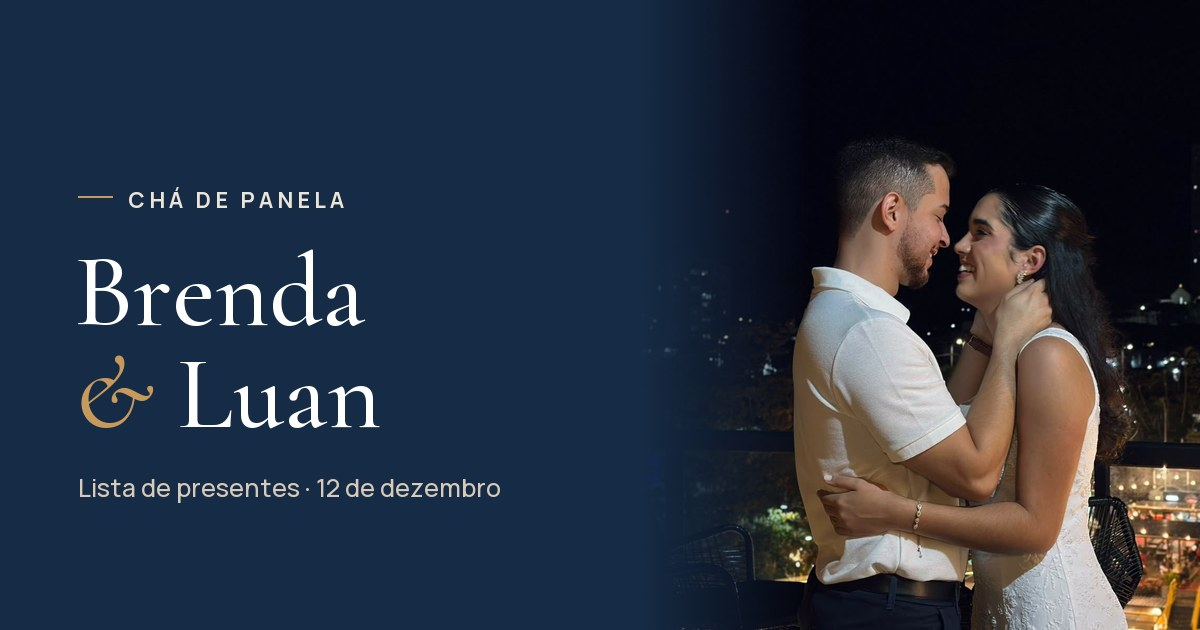
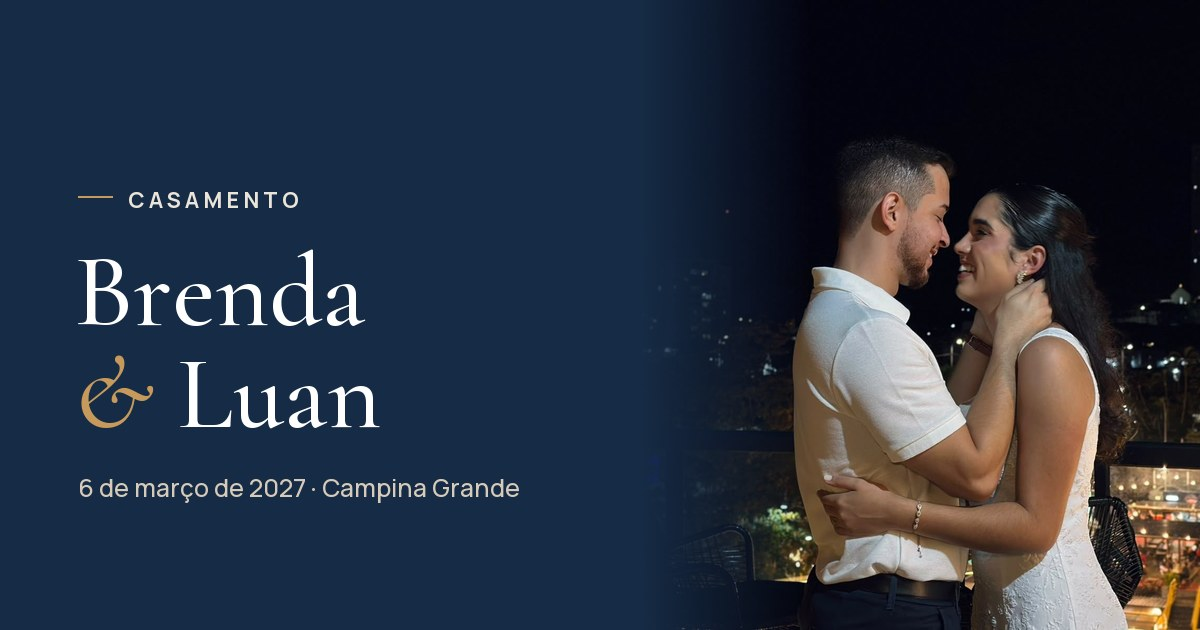
casamento: site oficial (contagem regressiva, 06/03/2027 Espaço Imbituba)

Changed region(s): [[0.0617, 0.754, 0.4317, 0.8143], [0.1233, 0.3016, 0.3083, 0.3317]]

diff --git a/cha-de-panela/index.html b/cha-de-panela/index.html
@@ -7,19 +7,19 @@
 <meta name="robots" content="noindex, nofollow">
 <link rel="icon" href="favicon.ico">
 <link rel="apple-touch-icon" href="apple-touch-icon.png">
-<title>Chá de Panela · Brenda & Luan</title>
-<meta name="description" content="Escolha um presente da nossa lista ou contribua via PIX. Obrigado por estar com a gente nesse começo!">
+<title>Brenda & Luan · Casamento</title>
+<meta name="description" content="Vamos nos casar! 6 de março de 2027, em Campina Grande. Aqui você encontra a contagem regressiva, o local e a nossa lista de presentes.">
 <meta property="og:type" content="website">
 <meta property="og:site_name" content="Brenda & Luan">
-<meta property="og:title" content="Chá de Panela · Brenda & Luan">
-<meta property="og:description" content="Escolha um presente da nossa lista ou contribua via PIX. Obrigado por estar com a gente nesse começo!">
+<meta property="og:title" content="Brenda & Luan · Casamento">
+<meta property="og:description" content="Vamos nos casar! 6 de março de 2027, em Campina Grande. Aqui você encontra a contagem regressiva, o local e a nossa lista de presentes.">
 <meta property="og:url" content="https://brendaeluan.vercel.app/">
 <meta property="og:image" content="https://brendaeluan.vercel.app/img/previa.jpg">
 <meta property="og:image:secure_url" content="https://brendaeluan.vercel.app/img/previa.jpg">
 <meta property="og:image:type" content="image/jpeg">
 <meta property="og:image:width" content="1200">
 <meta property="og:image:height" content="630">
-<meta property="og:image:alt" content="Brenda e Luan abraçados · Chá de Panela">
+<meta property="og:image:alt" content="Brenda e Luan abraçados · Casamento">
 <meta property="og:locale" content="pt_BR">
 <meta name="twitter:card" content="summary_large_image">
 <link rel="canonical" href="https://brendaeluan.vercel.app/">
@@ -105,6 +105,18 @@ a{color:inherit}
 .cta-link{font-size:13px;color:rgba(255,255,255,.88);text-decoration:underline;text-underline-offset:5px;text-decoration-color:rgba(199,154,91,.8);min-height:44px;padding:0 14px;display:inline-flex;align-items:center}
 
 /* ============ RECADO DOS NOIVOS ============ */
+/* contagem regressiva */
+.contagem{max-width:880px;margin:0 auto;padding:44px 20px 6px;text-align:center}
+.cg-kick{display:inline-flex;align-items:center;gap:12px;font-size:10px;letter-spacing:.3em;text-transform:uppercase;color:var(--gold-2);font-weight:700}
+.cg-kick::before,.cg-kick::after{content:"";width:22px;height:1px;background:var(--gold)}
+.cg-grid{display:grid;grid-template-columns:repeat(4,1fr);max-width:520px;margin:18px auto 0}
+.cg-cel{display:flex;flex-direction:column;align-items:center;gap:6px;padding:4px 0}
+.cg-cel+.cg-cel{border-left:1px solid var(--line)}
+.cg-cel b{font-family:var(--serif);font-weight:500;font-size:clamp(40px,11vw,58px);line-height:1;color:var(--navy);font-variant-numeric:lining-nums tabular-nums;font-feature-settings:"lnum" 1,"tnum" 1;letter-spacing:-.01em}
+.cg-cel span{font-size:9.5px;letter-spacing:.22em;text-transform:uppercase;color:var(--muted);font-weight:700}
+.cg-fim{font-family:var(--serif);font-style:italic;font-size:clamp(30px,8vw,40px);color:var(--navy);margin-top:14px}
+.cg-data{display:block;margin-top:18px;font-family:var(--serif);font-style:italic;font-size:19px;color:var(--gold-2)}
+.ev-obs{font-size:12.5px!important;color:var(--muted);margin-top:4px;font-style:italic}
 .recado{max-width:880px;margin:0 auto;padding:56px 24px 8px;display:grid;grid-template-columns:1fr;gap:30px;align-items:center;text-align:center}
 .recado-foto{justify-self:center;width:min(250px,66vw);background:#fff;padding:9px 9px 34px;border:1px solid var(--line);box-shadow:0 1px 2px rgba(60,45,25,.05),0 18px 34px -22px rgba(60,45,25,.45);transform:rotate(-2deg);position:relative}
 .recado-foto img{width:100%;aspect-ratio:4/5;object-fit:cover}
@@ -347,7 +359,7 @@ a{color:inherit}
 
 <div class="abertura" id="abertura" role="dialog" aria-modal="true" aria-label="Boas-vindas">
   <div class="ab-in">
-    <span class="kick">Chá de panela</span>
+    <span class="kick">Vamos nos casar</span>
     <div class="ab-nome">Brenda <i>&amp;</i> Luan</div>
     <span class="ab-data" id="ab-data"></span>
     <button class="ab-btn pulsa" id="ab-entrar">Entrar</button>
@@ -367,7 +379,7 @@ a{color:inherit}
 <header class="hero">
   <div class="hero-bg"><video class="hero-video" id="hero-video" muted autoplay loop playsinline webkit-playsinline preload="auto" aria-hidden="true"></video></div>
   <div class="hero-in">
-    <span class="kick">Chá de panela</span>
+    <span class="kick">Vamos nos casar</span>
     <h1>Brenda <i>&amp;</i> Luan</h1>
     <span class="hero-date" id="hero-date"></span>
     <div class="hero-ctas">
@@ -378,6 +390,18 @@ a{color:inherit}
     </div>
   </div>
 </header>
+
+<section class="contagem" id="contagem" aria-label="Contagem regressiva">
+  <small class="cg-kick">Contagem regressiva</small>
+  <div class="cg-grid" id="cg-grid">
+    <div class="cg-cel"><b id="cg-d">–</b><span>dias</span></div>
+    <div class="cg-cel"><b id="cg-h">–</b><span>horas</span></div>
+    <div class="cg-cel"><b id="cg-m">–</b><span>minutos</span></div>
+    <div class="cg-cel"><b id="cg-s">–</b><span>segundos</span></div>
+  </div>
+  <p class="cg-fim" id="cg-fim" hidden></p>
+  <span class="cg-data" id="cg-data"></span>
+</section>
 
 <section class="recado">
   <figure class="recado-foto"><img src="img/casal.jpg" alt="Brenda e Luan"><figcaption>Brenda &amp; Luan</figcaption></figure>
@@ -392,10 +416,10 @@ a{color:inherit}
   <div class="ev-card">
     <div class="ev-date"><small id="ev-dia-sem"></small><b id="ev-dia"></b><small id="ev-mes"></small></div>
     <div class="ev-info">
-      <span class="caps">O chá de panela</span>
+      <span class="caps">A cerimônia</span>
       <h3 id="ev-titulo"></h3>
       <p id="ev-endereco"></p>
-      <span class="ev-count" id="ev-count"></span>
+      <p class="ev-obs" id="ev-obs"></p>
       <div class="ev-acts">
         <a class="ev-btn" id="ev-mapa" target="_blank" rel="noopener"><svg class="ico" viewBox="0 0 24 24" fill="none" stroke="currentColor" stroke-width="2"><path d="M12 21s-7-6.2-7-12a7 7 0 0 1 14 0c0 5.8-7 12-7 12Z"/><circle cx="12" cy="9" r="2.5"/></svg>Como chegar</a>
       </div>
@@ -784,11 +808,35 @@ const EVENTO = CFG.evento || {};
     $('#ev-titulo').textContent = 'Às ' + h + (EVENTO.lugar ? ', no ' + EVENTO.lugar : '');
   } else { $('#evento').hidden = true; $('#hero-date').hidden = true; }
   $('#ev-endereco').textContent = EVENTO.endereco || '';
+  if (EVENTO.obs) $('#ev-obs').textContent = EVENTO.obs; else $('#ev-obs').hidden = true;
+})();
+/* contagem regressiva: dias · horas · minutos · segundos até EVENTO.inicio */
+function partesContagem(alvo, agora) {
+  let t = Math.max(0, Math.floor((alvo - agora) / 1000));
+  const d = Math.floor(t / 86400); t -= d * 86400;
+  const h = Math.floor(t / 3600); t -= h * 3600;
+  const m = Math.floor(t / 60);
+  return { d, h, m, s: t - m * 60 };
+}
+(function(){
+  if (!EVENTO.inicio) { $('#contagem').hidden = true; return; }
+  const alvo = new Date(EVENTO.inicio).getTime(), dois = n => String(n).padStart(2, '0');
+  const fmt = o => new Intl.DateTimeFormat('pt-BR', {timeZone:'America/Sao_Paulo', ...o}).format(alvo);
+  $('#cg-data').textContent = fmt({day:'numeric', month:'long', year:'numeric'}) + ' · ' + fmt({hour:'2-digit', minute:'2-digit'}).replace(':00', 'h').replace(':', 'h');
+  let timer;
+  const tick = () => {
+    const agora = Date.now();
+    if (agora >= alvo) {
+      clearInterval(timer); $('#cg-grid').hidden = true; $('#cg-fim').hidden = false;
+      $('#cg-fim').textContent = agora - alvo < 864e5 ? 'É hoje!' : 'Felizes para sempre';
+      return;
+    }
+    const p = partesContagem(alvo, agora);
+    $('#cg-d').textContent = p.d; $('#cg-h').textContent = dois(p.h); $('#cg-m').textContent = dois(p.m); $('#cg-s').textContent = dois(p.s);
+  };
+  tick(); timer = setInterval(tick, 1000);
 })();
 (function(){
-  if (!EVENTO.inicio) { $('#ev-count').hidden = true; return; }
-  const dias = Math.ceil((new Date(EVENTO.inicio) - new Date()) / 864e5);
-  $('#ev-count').textContent = dias > 1 ? `Faltam ${dias} dias` : dias === 1 ? 'É amanhã!' : dias === 0 ? 'É hoje!' : 'Já aconteceu';
   if (EVENTO.local) $('#ev-mapa').href = 'https://www.google.com/maps/search/?api=1&query=' + encodeURIComponent(EVENTO.local);
 })();
 

diff --git a/cha-de-panela/config.js b/cha-de-panela/config.js
@@ -7,10 +7,11 @@ window.CHA_CONFIG = {
   "pixTitular": "Brenda Teixeira Figueiredo",
   "pixBanco": "Mercado Pago",
   "evento": {
-    "inicio": "2026-12-12T15:00:00-03:00",
-    "cidade": "Imbituba",
-    "lugar": "Espaço Villa Jardim",
-    "endereco": "Rua das Palmeiras, 123 · Centro · Imbituba/SC",
-    "local": "Espaço Villa Jardim, Rua das Palmeiras, 123 - Centro, Imbituba - SC"
+    "inicio": "2027-03-06T15:00:00-03:00",
+    "cidade": "Campina Grande",
+    "lugar": "Espaço Imbituba",
+    "endereco": "Av. Paris · Cuités · Campina Grande – PB",
+    "obs": "A cerimônia e a recepção serão no mesmo local.",
+    "local": "Espaço Imbituba, Av. Paris, Cuités, Campina Grande - PB, 58115-000"
   }
 };
